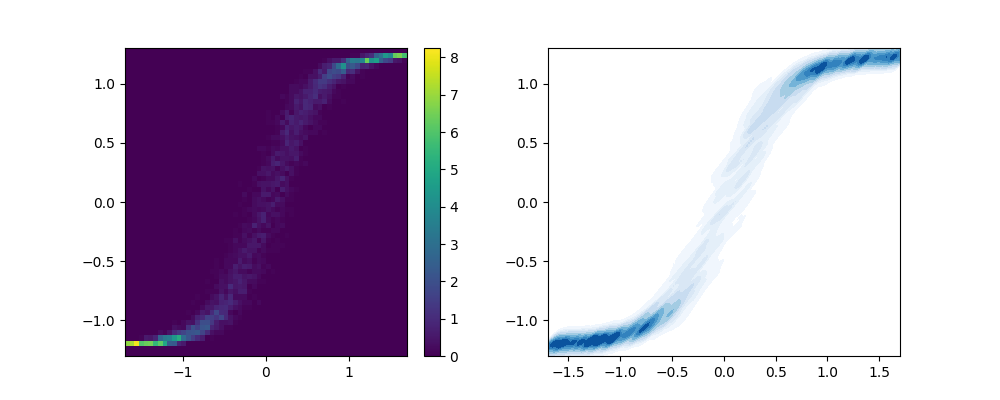
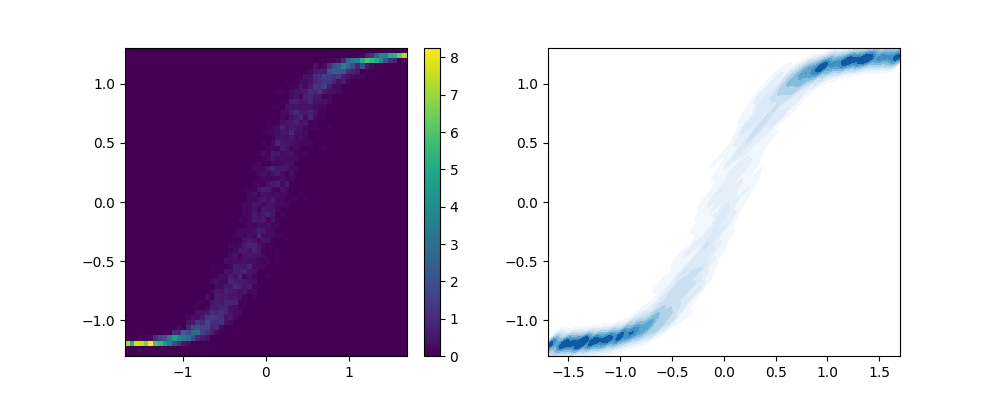
generic commit

diff --git a/scripts/transport/kvae_diffusion.py b/scripts/transport/kvae_diffusion.py
@@ -487,7 +487,7 @@ def comp_cond_kernel_transport(X_mu, Y_mu, Y_eta, Y_eta_test, X_mu_test, Y_mu_te
 
     val_best_idx = min(np.argmin(validation_losses), len(validation_losses)-1)
     for key in param_keys:
-        models_param_dict[key] = models_param_dict[key][:]#val_best_idx + 1]
+        models_param_dict[key] = models_param_dict[key][:val_best_idx + 1]
     return Comp_transport_model(models_param_dict)
 
 
@@ -800,12 +800,12 @@ def vl_exp(N=4000, Yd=18, normal=True, exp_name='kvl_exp', n_transports=60,  N_p
 
 
 def run():
-    target_gen = mgan2 #lambda N: mgan2(N)
-    two_d_exp(ref_gen=sample_normal, target_gen=target_gen, N=5000, exp_name='mgan2_diff', n_transports=60,
-              slice_vals=[-1,0,1], plt_range=[[-1.7,1.7],[-1.3,1.3]], slice_range=[-1.7,1.7], vmax=8.25,
-              skip_idx = 1, N_plot=5000, plot_steps=False, bins=60, normal = True)
+    #target_gen = mgan2 #lambda N: mgan2(N)
+    #two_d_exp(ref_gen=sample_normal, target_gen=sample_elden_ring, N=5000, exp_name='elden_diff2', n_transports=60,
+              #slice_vals=[-1,0,1], plt_range=[[-1.7,1.7],[-1.3,1.3]], slice_range=[-1.7,1.7], vmax=8.25,
+              #skip_idx = 1, N_plot=5000, plot_steps=False, bins=60, normal = True)
 
-    #vl_exp(N = 5000, n_transports=60, N_plot= 5000, exp_name='kvl_exp_diff ')
+    vl_exp(N = 5000, n_transports=60, N_plot= 5000, exp_name='kvl_exp_diff2')
 
 
 
